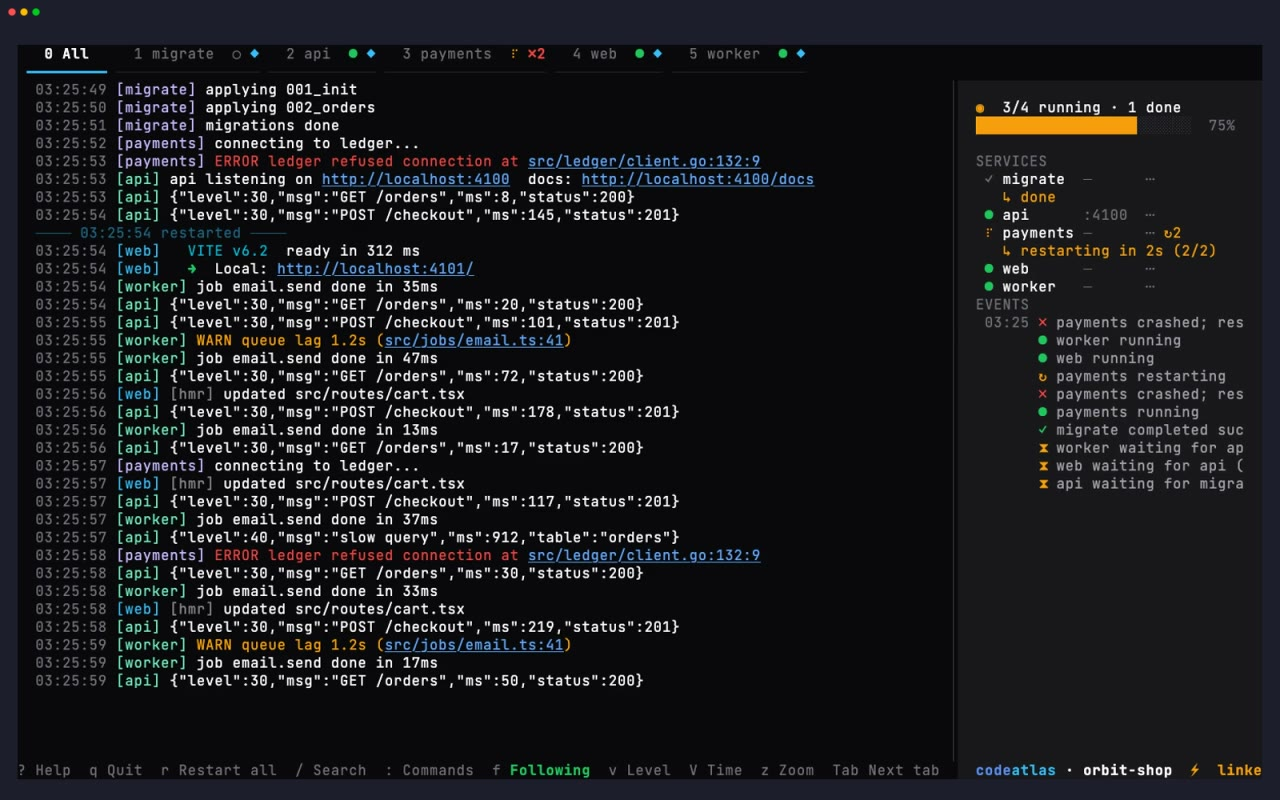
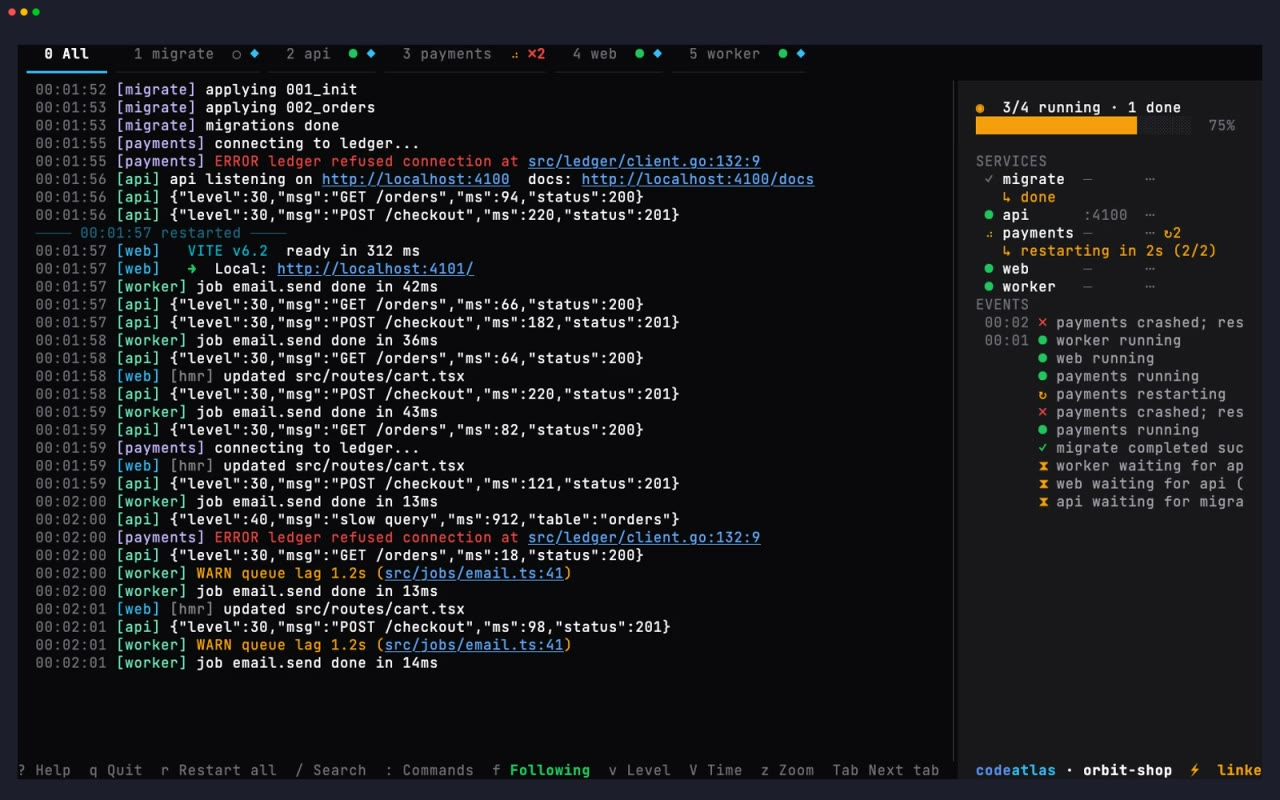
fix(desktop): flicker judge's black threshold in linear light; re-record loop-tui (#85)
* fix(desktop): flicker judge's black threshold is in the grid's linear unit; re-record loop-tui

blackMean 0.02 linear (sRGB ~39/255) called dark-theme frames black (demo.gif frame 471). Now 0.0024 (sRGB 8/255). loop-tui re-cut from a fresh vhs take.

* style: prettier

---------

diff --git a/apps/desktop/src/lib/debug/flickerSweep.test.ts b/apps/desktop/src/lib/debug/flickerSweep.test.ts
@@ -223,6 +223,36 @@ describe("gridOf: raw rgb24 -> the luminance grid the detector reads", () => {
 		).toBe(true);
 	});
 
+	// Incident (alpha.13 site media): the judge called frame 471 of demo.gif "black" while it was the dark TUI with text
+	// (sRGB mean 0.114). The grid is LINEAR luminance (WCAG), but `blackMean` 0.02 was an sRGB-looking number: linear
+	// 0.02 is sRGB ~39/255, above the background of most dark themes. Through the real grid, a near-black theme
+	// background between two lit frames must not be a blank frame; true black and a 5/255 near-black must be.
+	test("a dark theme background is not black; black and near-black are", () => {
+		const at = (t: number, c: [number, number, number]) => ({
+			t,
+			grid: gridOf(
+				rgb(() => c),
+				w,
+				h,
+			),
+		});
+		const lit: [number, number, number] = [200, 200, 200];
+		for (const theme of [
+			[24, 24, 27],
+			[30, 31, 41],
+			[18, 18, 18],
+		] as [number, number, number][])
+			expect(blankFrames([at(0, lit), at(1 / 60, theme), at(2 / 60, lit)], opts), String(theme)).toEqual([]);
+		for (const black of [
+			[0, 0, 0],
+			[5, 5, 5],
+		] as [number, number, number][])
+			expect(
+				blankFrames([at(0, lit), at(1 / 60, black), at(2 / 60, lit)], opts).map((b) => b.kind),
+				String(black),
+			).toEqual(["black"]);
+	});
+
 	test("each cell averages its own pixels: a white pixel in a black cell raises only that cell, by 1/(px*px)", () => {
 		const g = gridOf(
 			rgb((x, y) => (x === 0 && y === 0 ? [255, 255, 255] : [0, 0, 0])),

diff --git a/apps/desktop/src/lib/debug/flickerSweep.ts b/apps/desktop/src/lib/debug/flickerSweep.ts
@@ -40,7 +40,8 @@ export interface FlickerOpts {
 	maxLen: number;
 	/** frames at the start to ignore (the window being created) */
 	skipLeading: number;
-	/** mean luminance under which a frame is black */
+	/** mean LINEAR luminance (the grid's unit) under which a frame is black: 0.0024 is sRGB 8/255. Dark theme
+	 * backgrounds sit at sRGB 18-40/255 (linear 0.006-0.02), so a higher value calls a dark UI black. */
 	blackMean: number;
 	/** grid standard deviation under which a frame is flat */
 	flatStd: number;
@@ -54,7 +55,7 @@ export const DEFAULTS: FlickerOpts = {
 	minCells: 6,
 	maxLen: 2,
 	skipLeading: 0,
-	blackMean: 0.02,
+	blackMean: 0.0024,
 	flatStd: 0.004,
 	texturedStd: 0.02,
 };
